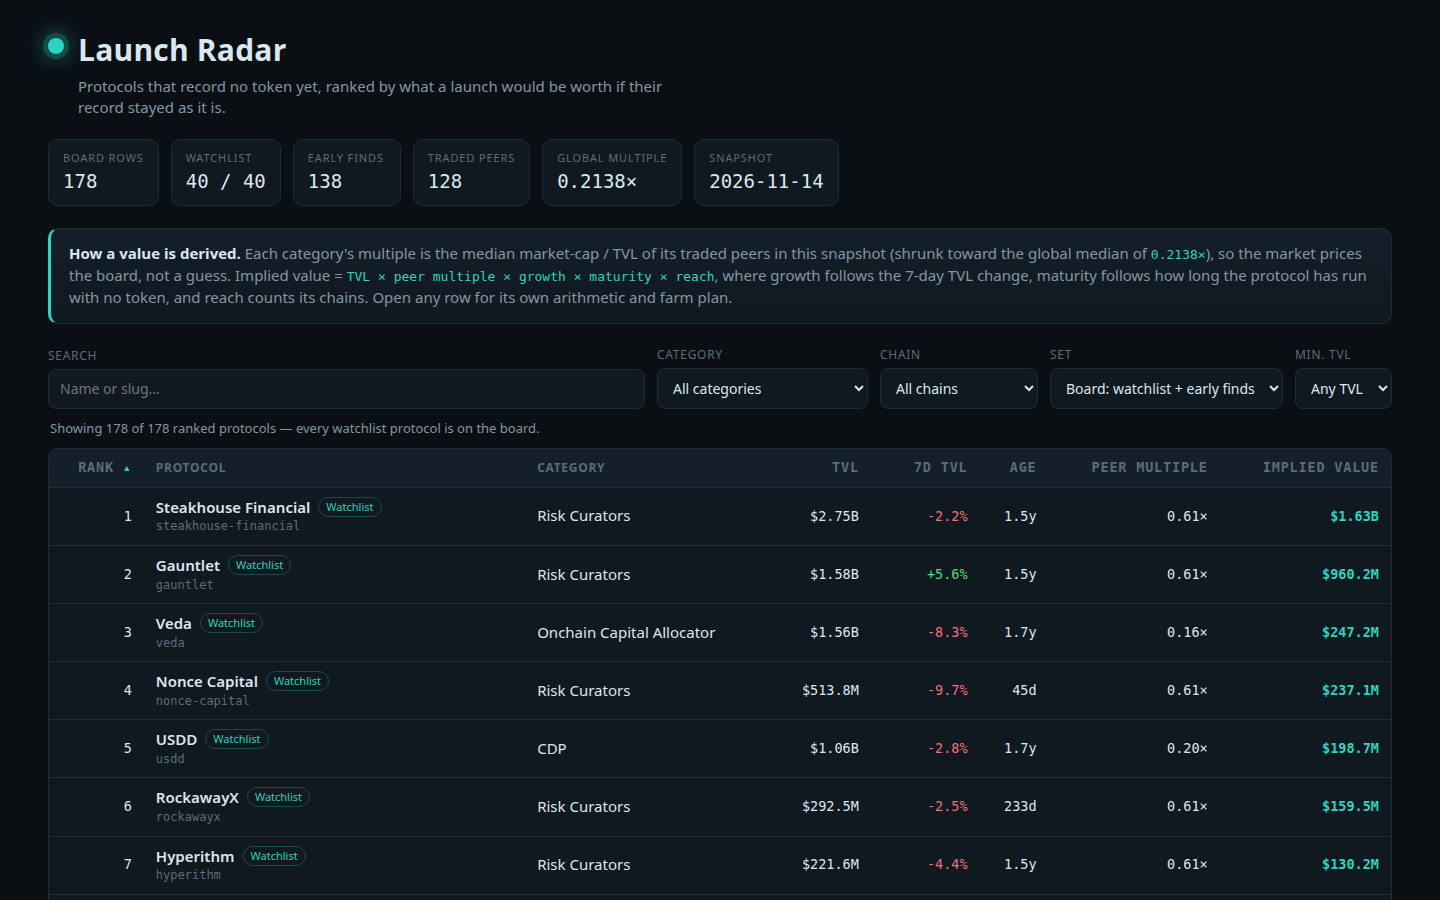
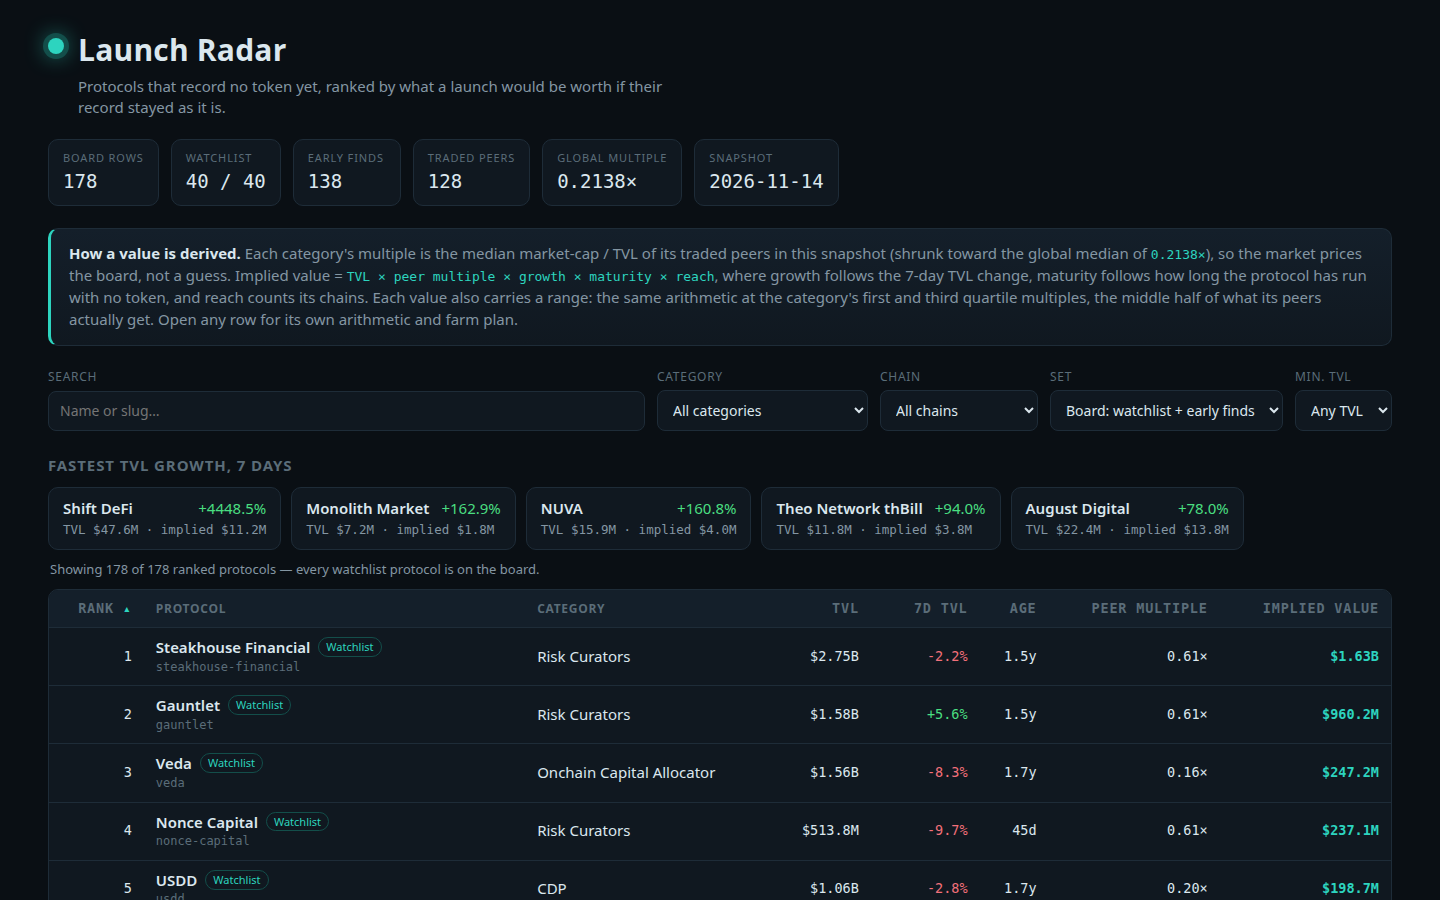
v2: implied value ranges from peer quartiles, 7-step farm plans with exit rule, movers strip and calibration table

diff --git a/lib/model.ts b/lib/model.ts
@@ -14,6 +14,10 @@
 //   reach              = 1 + 0.02 x min(chains - 1, 4)
 //   implied_value_usd  = round(base x growth x maturity x reach)
 //
+// Each row also carries an implied range: the same arithmetic at the category's first and
+// third quartile multiples, so a reader sees the spread of outcomes the peer set supports,
+// not just its median.
+//
 // No protocol name is ever special-cased: calibrate() reads only the snapshot's figures, and
 // score() applies the same arithmetic to every row. Protocols whose token already trades are
 // never ranked: they are the calibration set, and the dashboard shows them apart, at the
@@ -40,7 +44,7 @@ export interface Snapshot {
   watchlist: string[];
 }
 
-export const MODEL_VERSION = 'comparables-2';
+export const MODEL_VERSION = 'comparables-3';
 export const EARLY_ROWS = 200;
 export const LIVE_ROWS = 30;
 
@@ -53,7 +57,9 @@ const GROWTH_CAP = 150;
 
 export interface Calibration {
   global_multiple: number;
-  by_category: Map<string, { multiple: number; comps: number }>;
+  global_low: number;
+  global_high: number;
+  by_category: Map<string, { multiple: number; low: number; high: number; comps: number }>;
   traded_count: number;
 }
 
@@ -61,6 +67,12 @@ function median(values: number[]): number {
   const sorted = [...values].sort((a, b) => a - b);
   const mid = Math.floor(sorted.length / 2);
   return sorted.length % 2 === 1 ? sorted[mid]! : (sorted[mid - 1]! + sorted[mid]!) / 2;
+}
+
+function quartile(sorted: number[], q: number): number {
+  if (sorted.length === 0) return 0;
+  const at = Math.min(sorted.length - 1, Math.max(0, Math.floor(q * sorted.length)));
+  return sorted[at]!;
 }
 
 /** The market's price of a TVL dollar, learned from the snapshot's traded protocols. */
@@ -79,12 +91,28 @@ export function calibrate(snapshot: Snapshot): Calibration {
     }
   }
   const global = all.length > 0 ? median(all) : 0.2;
-  const byCategory = new Map<string, { multiple: number; comps: number }>();
+  const sortedAll = [...all].sort((a, b) => a - b);
+  const globalQ1 = quartile(sortedAll, 0.25);
+  const globalQ3 = quartile(sortedAll, 0.75);
+  const shrinkTo = (center: number, n: number, anchor: number): number =>
+    Math.min(MULT_CAP, Math.max(MULT_FLOOR, (n * center + SHRINKAGE * anchor) / (n + SHRINKAGE)));
+  const byCategory = new Map<string, { multiple: number; low: number; high: number; comps: number }>();
   for (const [category, ratios] of perCategory) {
-    const shrunk = (ratios.length * median(ratios) + SHRINKAGE * global) / (ratios.length + SHRINKAGE);
-    byCategory.set(category, { multiple: Math.min(MULT_CAP, Math.max(MULT_FLOOR, shrunk)), comps: ratios.length });
+    const sorted = [...ratios].sort((a, b) => a - b);
+    const multiple = shrinkTo(median(ratios), ratios.length, global);
+    // The band shrinks toward the global band, not the global median, so a category with two
+    // near-identical peers still reports the spread the wider market supports.
+    const low = Math.min(multiple, shrinkTo(quartile(sorted, 0.25), ratios.length, globalQ1));
+    const high = Math.max(multiple, shrinkTo(quartile(sorted, 0.75), ratios.length, globalQ3));
+    byCategory.set(category, { multiple, low, high, comps: ratios.length });
   }
-  return { global_multiple: global, by_category: byCategory, traded_count: all.length };
+  return {
+    global_multiple: global,
+    global_low: Math.min(global, shrinkTo(globalQ1, all.length, globalQ1)),
+    global_high: Math.max(global, shrinkTo(globalQ3, all.length, globalQ3)),
+    by_category: byCategory,
+    traded_count: all.length,
+  };
 }
 
 const DAY_MS = 86_400_000;
@@ -99,6 +127,8 @@ export function ageDays(asOf: string, listedAt: string | null): number | null {
 
 export interface Score {
   implied: number;
+  implied_low: number;
+  implied_high: number;
   multiple: number;
   comps: number;
   growth_multiplier: number;
@@ -111,6 +141,8 @@ export interface Score {
 export function score(p: SnapshotProtocol, asOf: string, cal: Calibration): Score {
   const cat = p.category !== null ? cal.by_category.get(p.category) : undefined;
   const multiple = cat?.multiple ?? cal.global_multiple;
+  const lowMult = cat?.low ?? cal.global_low;
+  const highMult = cat?.high ?? cal.global_high;
   const comps = cat?.comps ?? 0;
   const growthPct = p.change_7d === null ? 0 : Math.min(GROWTH_CAP, Math.max(GROWTH_FLOOR, p.change_7d));
   const growth = 1 + (growthPct / 100) * GROWTH_WEIGHT;
@@ -118,7 +150,9 @@ export function score(p: SnapshotProtocol, asOf: string, cal: Calibration): Scor
   const maturity = age === null ? 0.85 : 0.75 + 0.25 * (1 - Math.exp(-age / 540));
   const reach = 1 + 0.02 * Math.min(Math.max(p.chains.length - 1, 0), 4);
   const implied = Math.max(1, Math.round(p.tvl_usd * multiple * growth * maturity * reach));
-  return { implied, multiple, comps, growth_multiplier: growth, maturity_multiplier: maturity, reach_multiplier: reach, age_days: age };
+  const implied_low = Math.max(1, Math.round(p.tvl_usd * Math.min(lowMult, multiple) * growth * maturity * reach));
+  const implied_high = Math.max(implied, Math.round(p.tvl_usd * Math.max(highMult, multiple) * growth * maturity * reach));
+  return { implied, implied_low, implied_high, multiple, comps, growth_multiplier: growth, maturity_multiplier: maturity, reach_multiplier: reach, age_days: age };
 }
 
 /** Whether the snapshot records no token for a protocol. */
@@ -159,6 +193,8 @@ export interface BoardRow {
   watchlist: boolean;
   age_days: number | null;
   implied_value_usd: number;
+  implied_low_usd: number;
+  implied_high_usd: number;
   model: {
     multiple: number;
     comps: number;
@@ -181,6 +217,14 @@ export interface LiveRow {
   multiple: number | null;
 }
 
+export interface CalibrationRow {
+  category: string;
+  comps: number;
+  multiple: number;
+  low: number;
+  high: number;
+}
+
 export interface RadarData {
   as_of: string;
   source: string;
@@ -191,6 +235,7 @@ export interface RadarData {
   watchlist_size: number;
   board_size: number;
   early_size: number;
+  calibration: CalibrationRow[];
   rows: BoardRow[];
   live: LiveRow[];
 }
@@ -228,6 +273,8 @@ export function buildBoard(snapshot: Snapshot, cal: Calibration): BoardRow[] {
     watchlist: watch.has(p.slug),
     age_days: s.age_days,
     implied_value_usd: s.implied,
+    implied_low_usd: s.implied_low,
+    implied_high_usd: s.implied_high,
     model: {
       multiple: round4(s.multiple),
       comps: s.comps,
@@ -304,12 +351,17 @@ export function farmSteps(p: SnapshotProtocol, age: number | null): string[] {
   const gas = gasUsd(chain);
   const capital = capitalFor(p.tvl_usd);
   const hold = holdDaysFor(age);
+  const second = p.chains.length > 1 ? p.chains[1]! : null;
   const steps = [
-    `Start with a fresh wallet funded only from an exchange withdrawal, holding the $${capital} you plan to farm plus gas money. Cost: ${gas} for the funding transaction on ${chain}. Time: 10 minutes.`,
+    `Start with a fresh wallet funded only from an exchange withdrawal, holding the $${capital} you plan to farm plus gas money, and use this one wallet for ${p.name} only, so its history stays clean and readable. Cost: ${gas} for the funding transaction on ${chain}. Time: 10 minutes.`,
     `${coreAction(p, capital, chain)}. Cost: $${capital} of capital plus ${gas} per transaction in gas. Time: 20 minutes to set up.`,
+    second !== null
+      ? `In week two, repeat a smaller version of the same action on ${second} (about $${Math.max(10, Math.round(capital / 4))}), because multi-chain users are the cohort protocols most often weight heaviest in a distribution. Cost: ${gasUsd(second)} per transaction on ${second}. Time: 15 minutes.`
+      : `In week two, add a second, different action inside ${p.name} (a second pool, a borrow against the first position, or a governance vote), because breadth inside one protocol is what separates a user from a passer-by. Cost: ${gas} in gas. Time: 15 minutes.`,
     `Repeat one small qualifying action every week (a deposit, a swap, a vote or a claim) so the wallet reads as a regular user, not a one-day visitor. Cost: ${gas} in gas a week. Time: 10 minutes a week.`,
     `Hold the position for at least ${hold} days and across two monthly snapshots; do not withdraw everything the same week a points or season page appears. Cost: the $${capital} stays deployed and exposed to the protocol's smart-contract risk. Time: ${hold} days.`,
     `Each Friday, open the protocol's own points, rewards or governance page from its official site and record your balance in a farm log; claim only from links the protocol itself publishes, never from a search ad or a direct message. Cost: nothing to check, and never pay a fee to claim. Time: 5 minutes a week.`,
+    `Exit rule: if a token and a claim date are announced, keep at least half the position untouched until the published snapshot or claim date has passed, then withdraw in two tranches a week apart rather than all at once. Cost: ${gas} per withdrawal. Time: 10 minutes per tranche.`,
   ];
   return steps.map((s) => (s.length > 600 ? `${s.slice(0, 596)}...` : s));
 }
@@ -346,6 +398,9 @@ export function buildRadar(snapshot: Snapshot): { board: BoardRow[]; radar: Rada
     watchlist_size: snapshot.watchlist.length,
     board_size: board.length,
     early_size: board.filter((r) => !r.watchlist).length,
+    calibration: [...cal.by_category.entries()]
+      .map(([category, v]) => ({ category, comps: v.comps, multiple: round4(v.multiple), low: round4(v.low), high: round4(v.high) }))
+      .sort((a, b) => b.comps - a.comps || (a.category < b.category ? -1 : 1)),
     rows: board,
     live: liveRows(snapshot),
   };

diff --git a/dashboard/app.js b/dashboard/app.js
@@ -41,7 +41,8 @@ $('model-note').innerHTML =
   `traded peers in this snapshot (shrunk toward the global median of <code>${R.global_multiple}×</code>), so the market ` +
   `prices the board, not a guess. Implied value = <code>TVL × peer multiple × growth × maturity × reach</code>, where ` +
   `growth follows the 7-day TVL change, maturity follows how long the protocol has run with no token, and reach ` +
-  `counts its chains. Open any row for its own arithmetic and farm plan.`;
+  `counts its chains. Each value also carries a range: the same arithmetic at the category's first and third quartile ` +
+  `multiples, the middle half of what its peers actually get. Open any row for its own arithmetic and farm plan.`;
 
 $('foot-note').textContent =
   `Source: ${R.source}. “Records no token” is what the snapshot's record says, not proof a token does not exist. ` +
@@ -119,6 +120,20 @@ document.querySelectorAll('#board th').forEach((th) => {
   });
 });
 
+// ---- fastest growers -------------------------------------------------------------------
+$('movers').innerHTML = [...R.rows]
+  .filter((r) => r.change_7d !== null)
+  .sort((a, b) => b.change_7d - a.change_7d)
+  .slice(0, 5)
+  .map(
+    (r) => `<button class="mover" data-slug="${esc(r.slug)}"><span class="mover-name">${esc(r.name)}</span><span class="up">${fmtPct(r.change_7d)}</span><span class="mover-sub">TVL ${fmtUsd(r.tvl_usd)} · implied ${fmtUsd(r.implied_value_usd)}</span></button>`,
+  )
+  .join('');
+$('movers').addEventListener('click', (e) => {
+  const b = e.target.closest('[data-slug]');
+  if (b) openDetail(b.dataset.slug);
+});
+
 // ---- detail view ----------------------------------------------------------------------
 const detail = $('detail');
 const scrim = $('scrim');
@@ -127,6 +142,14 @@ let lastFocus = null;
 function bar(label, value, shown, max, amber) {
   const pct = Math.max(2, Math.min(100, (value / max) * 100));
   return `<div class="bar-row"><div class="bar-label"><span>${esc(label)}</span><b>${esc(shown)}</b></div><div class="bar${amber ? ' amber' : ''}"><i style="width:${pct}%"></i></div></div>`;
+}
+
+function rangeGeom(r) {
+  const max = r.implied_high_usd * 1.08;
+  const left = (r.implied_low_usd / max) * 100;
+  const width = Math.max(1.5, ((r.implied_high_usd - r.implied_low_usd) / max) * 100);
+  const dot = Math.min(99, (r.implied_value_usd / max) * 100);
+  return { left: left.toFixed(1), width: width.toFixed(1), dot: dot.toFixed(1) };
 }
 
 function openDetail(slug) {
@@ -153,6 +176,13 @@ function openDetail(slug) {
     ${bar('Maturity multiplier — time running with no token', m.maturity_multiplier, `${m.maturity_multiplier.toFixed(2)}×`, 1)}
     ${bar('Reach multiplier — chains served', m.reach_multiplier, `${m.reach_multiplier.toFixed(2)}×`, 1.1, true)}
     <p class="formula">${fmtUsd(r.tvl_usd)} × <b>${m.multiple.toFixed(2)}</b> × ${m.growth_multiplier.toFixed(2)} × ${m.maturity_multiplier.toFixed(2)} × ${m.reach_multiplier.toFixed(2)} = <b>${fmtUsd(r.implied_value_usd)}</b></p>
+    <h3>Implied range</h3>
+    <p class="range-note">Priced at the middle half of its peers' multiples instead of the median: <b>${fmtUsd(r.implied_low_usd)}</b> to <b>${fmtUsd(r.implied_high_usd)}</b>. The marker is the headline value.</p>
+    <div class="range" role="img" aria-label="Implied value range ${fmtUsd(r.implied_low_usd)} to ${fmtUsd(r.implied_high_usd)}, headline ${fmtUsd(r.implied_value_usd)}">
+      <span class="range-band" style="left:${rangeGeom(r).left}%;width:${rangeGeom(r).width}%"></span>
+      <span class="range-dot" style="left:${rangeGeom(r).dot}%"></span>
+    </div>
+    <div class="range-scale"><span>${fmtUsd(r.implied_low_usd)}</span><span>${fmtUsd(r.implied_high_usd)}</span></div>
     <h3>Farm plan</h3>
     <ol class="farm">${r.farm_steps.map((s) => `<li>${esc(s)}</li>`).join('')}</ol>`;
   detail.hidden = false;
@@ -187,6 +217,19 @@ $('live-rows').innerHTML = R.live
       <td class="num">${fmtUsd(p.tvl_usd)}</td>
       <td class="num">${fmtUsd(p.mcap_usd)}</td>
       <td class="num">${p.multiple === null ? '—' : `${p.multiple.toFixed(2)}×`}</td>
+    </tr>`,
+  )
+  .join('');
+
+// ---- the calibration table --------------------------------------------------------------
+$('calib-rows').innerHTML = R.calibration
+  .slice(0, 14)
+  .map(
+    (c) => `<tr>
+      <td><span class="name">${esc(c.category)}</span></td>
+      <td class="num">${c.comps}</td>
+      <td class="num">${c.multiple.toFixed(2)}×</td>
+      <td class="num">${c.low.toFixed(2)}× – ${c.high.toFixed(2)}×</td>
     </tr>`,
   )
   .join('');

diff --git a/dashboard/app.css b/dashboard/app.css
@@ -79,6 +79,31 @@ tbody tr:focus-visible { outline: 2px solid var(--accent); outline-offset: -2px;
 .up { color: var(--green); } .down { color: var(--red); }
 .implied { color: var(--accent); font-weight: 600; }
 
+.movers { margin: 24px 0 4px; }
+.movers h2 { font-size: 15px; text-transform: uppercase; letter-spacing: .06em; color: var(--faint); margin-bottom: 10px; }
+.mover-row { display: flex; gap: 10px; flex-wrap: wrap; }
+.mover {
+  background: var(--panel); border: 1px solid var(--line); border-radius: var(--radius);
+  color: var(--ink); padding: 10px 14px; cursor: pointer; text-align: left; font: inherit;
+  display: grid; grid-template-columns: 1fr auto; gap: 1px 12px; min-width: 210px;
+}
+.mover:hover { border-color: var(--accent); }
+.mover-name { font-weight: 600; }
+.mover-sub { grid-column: 1 / -1; color: var(--muted); font-size: 12.5px; font-family: var(--mono); }
+
+.range { position: relative; height: 12px; background: var(--panel-2); border-radius: 99px; margin: 12px 0 4px; }
+.range-band { position: absolute; top: 0; height: 100%; background: var(--accent-dim); border-radius: 99px; }
+.range-dot {
+  position: absolute; top: 50%; width: 14px; height: 14px; border-radius: 50%;
+  background: var(--accent); transform: translate(-50%, -50%); box-shadow: 0 0 10px var(--accent);
+}
+.range-scale { display: flex; justify-content: space-between; color: var(--muted); font-family: var(--mono); font-size: 12px; }
+.range-note { color: var(--muted); margin: 0; }
+.range-note b { color: var(--ink); font-family: var(--mono); font-weight: 600; }
+.calib table { min-width: 640px; }
+.calib tbody tr { cursor: default; }
+.calib tbody tr:hover { background: transparent; }
+
 .live { margin-top: 34px; }
 .live-note { color: var(--muted); max-width: 860px; margin: 0 0 12px; }
 .live table { min-width: 700px; }

diff --git a/dashboard/index.html b/dashboard/index.html
@@ -48,6 +48,11 @@
   </label>
 </div>
 
+<section class="movers" aria-label="Fastest growing this week">
+  <h2>Fastest TVL growth, 7 days</h2>
+  <div class="mover-row" id="movers"></div>
+</section>
+
 <main>
   <p class="count" id="count" aria-live="polite"></p>
   <div class="table-wrap">
@@ -73,6 +78,16 @@
       <table id="live-table">
         <thead><tr><th>Protocol</th><th>Symbol</th><th>Category</th><th class="num">TVL</th><th class="num">Market cap</th><th class="num">MCap / TVL</th></tr></thead>
         <tbody id="live-rows"></tbody>
+      </table>
+    </div>
+  </section>
+  <section class="live calib" aria-label="Calibration by category">
+    <h2>Calibration by category</h2>
+    <p class="live-note">The multiples the market itself pays, category by category, from this snapshot's traded protocols. The band is the middle half of each category's peers (first to third quartile, shrunk the same way); a row's implied range is its own TVL priced at the band's ends.</p>
+    <div class="table-wrap">
+      <table id="calib-table">
+        <thead><tr><th>Category</th><th class="num">Traded peers</th><th class="num">Median multiple</th><th class="num">Middle-half band</th></tr></thead>
+        <tbody id="calib-rows"></tbody>
       </table>
     </div>
   </section>

diff --git a/README.md b/README.md
@@ -30,18 +30,24 @@ staked, bridged or versioned products of tokens that already trade. Protocols wh
 already trades are never ranked; the dashboard shows them apart, at the market's own
 values, as the calibration set.
 
-Each row's farm plan is generated from the protocol's own record (category, first chain,
-TVL, age): a core action for its category, chain-aware gas costs, a weekly qualifying
-action, a holding window, and a claim-safety routine.
+Every row also carries an **implied range**: the same value priced at the category's
+first and third quartile multiples — the middle half of what its peers actually get — so
+a reader sees the spread the peer set supports, not just its median.
+
+Each row's farm plan is generated from the protocol's own record (category, chains, TVL,
+age): a core action for its category, chain-aware gas costs, a second action on a second
+chain or product, a weekly qualifying action, a holding window, a claim-safety routine
+and an exit rule for the day a token is announced.
 
 ## Layout
 
 - `main.ts` — the entry point: snapshot in, `board.json`, `data.js`, `dashboard/`,
   `screenshots/` and `dossier.json` out.
 - `lib/model.ts` — calibration, scoring, board building and farm plans.
-- `dashboard/` — a static page (board, filters, sorting, a detail view per protocol, and
-  the calibration set). It renders with no network.
-- `screenshots/` — the board, a detail view and a filtered view.
+- `dashboard/` — a static page (board, filters, sorting, fastest growers, a detail view
+  per protocol with its implied range, the calibration set, and the calibration table).
+  It renders with no network.
+- `screenshots/` — the board, a detail view, a filtered view and the calibration table.
 - `vendor/makefun-board.ts` — the kit's dossier library, vendored.
 
 ## Run it
